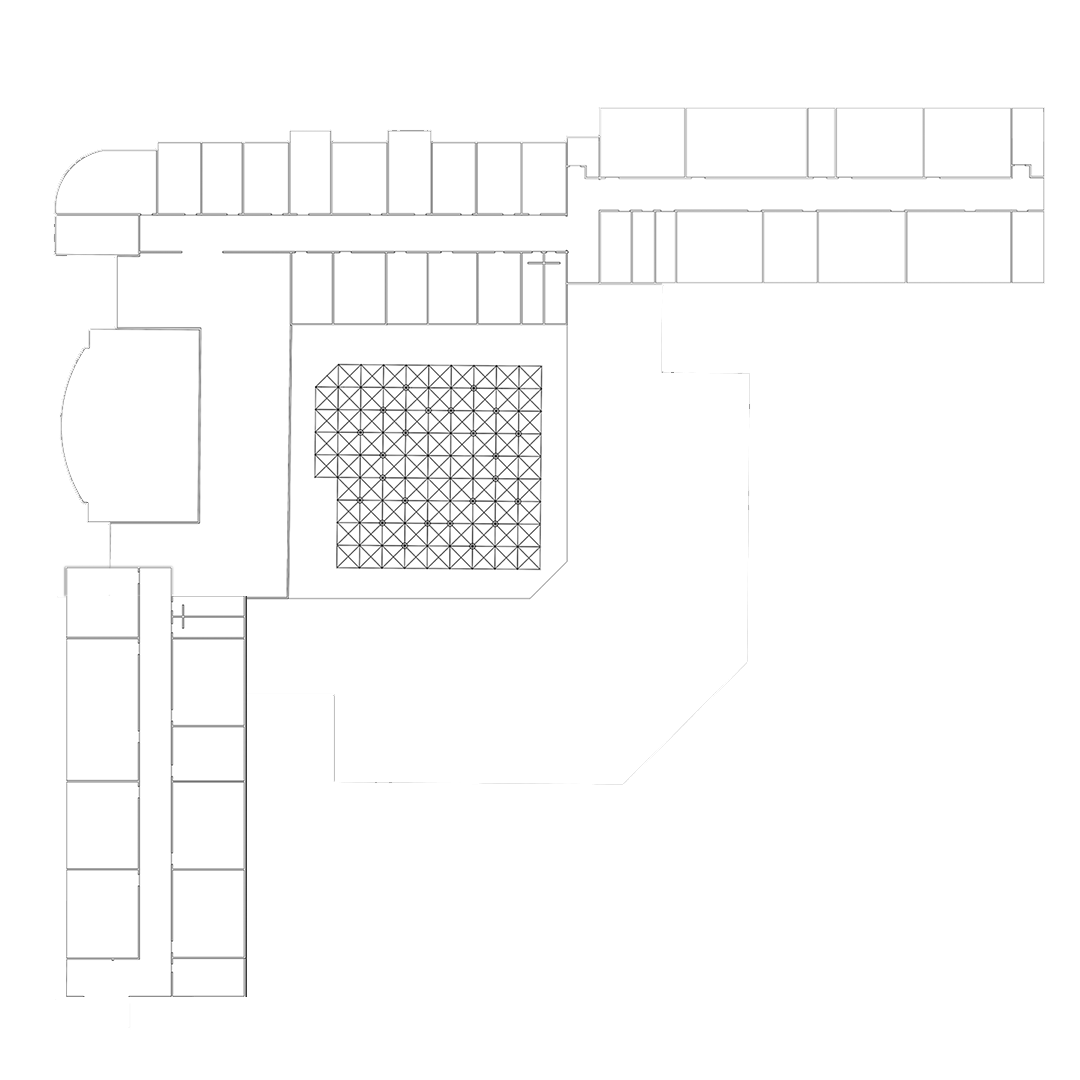
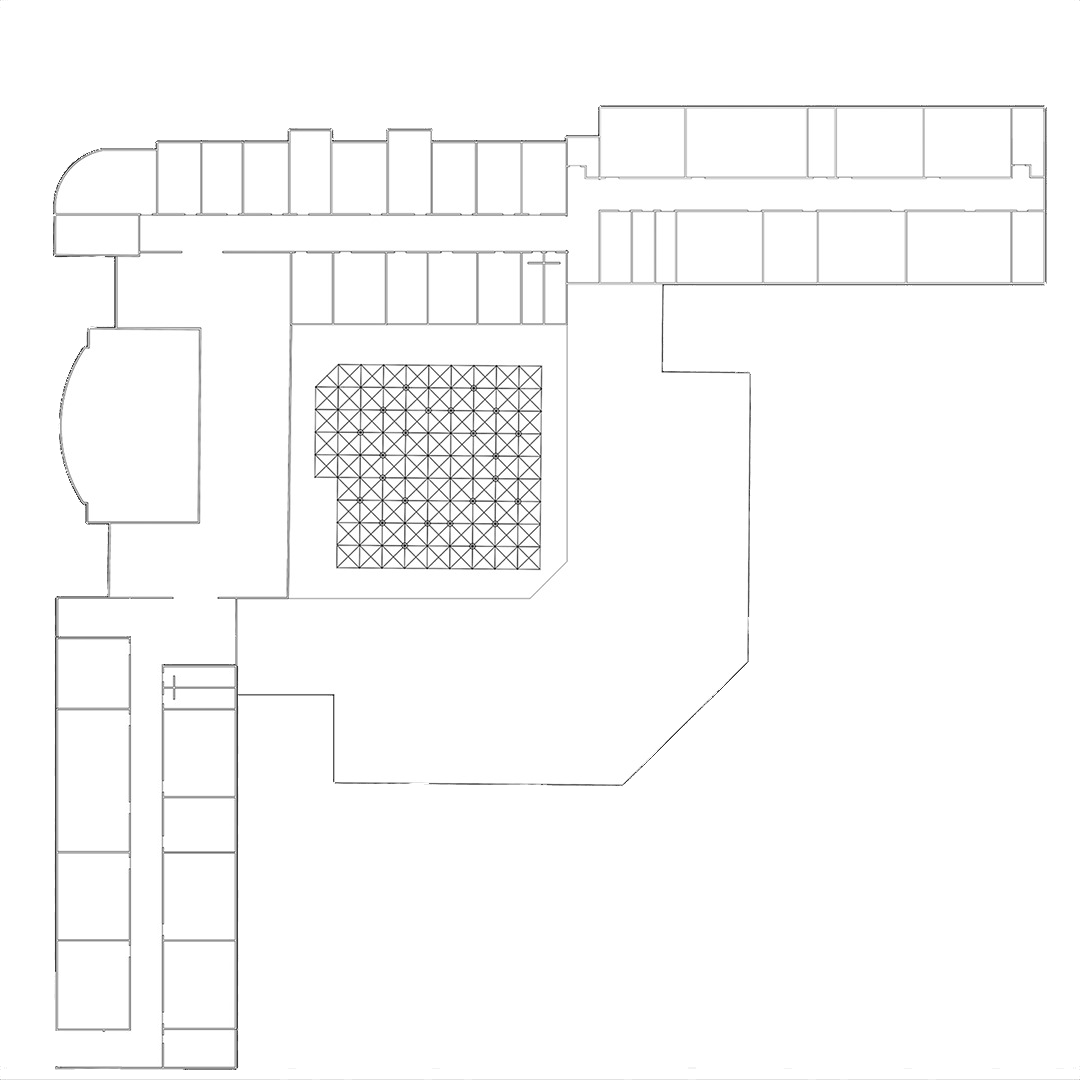
corridor 3 left

Changed region(s): [[0.0306, 0.5194, 0.2444, 1.0], [0.0917, 0.275, 0.1222, 0.3056], [0.0611, 0.4583, 0.0917, 0.4889]]

diff --git a/grad-map/lib/view/shared/global.dart b/grad-map/lib/view/shared/global.dart
@@ -278,11 +278,37 @@ abstract class Global {
       'name': '333',
       'icon': Icons.menu_book_rounded,
       'status': true,
-      'position': [-0.366, 0.055],
-      'door_position': [-0.333, 0.032],
-      'corridor_position': [-0.322, 0.032],
+      'position': [-0.374, 0.114],
+      'door_position': [-0.341, 0.091],
+      'corridor_position': [-0.329, 0.091],
     },
-    
+    {
+      'location': 'Room 332',
+      'name': '332',
+      'icon': Icons.menu_book_rounded,
+      'status': true,
+      'position': [-0.374, 0.2],
+      'door_position': [-0.341, 0.15],
+      'corridor_position': [-0.329, 0.15],
+    },
+    {
+      'location': '331',
+      'name': '331',
+      'icon': Icons.menu_book_rounded,
+      'status': true,
+      'position': [-0.374, 0.299],
+      'door_position': [-0.341, 0.27],
+      'corridor_position': [-0.329, 0.27],
+    },
+    {
+      'location': 'Room 330',
+      'name': '330',
+      'icon': Icons.menu_book_rounded,
+      'status': true,
+      'position': [-0.374, 0.375],
+      'door_position': [-0.341, 0.344],
+      'corridor_position': [-0.329, 0.44],
+    },
   ];
 
   static const List corridorCheckPoint = [

diff --git a/grad-map/lib/view/widgets/gridview_widget.dart b/grad-map/lib/view/widgets/gridview_widget.dart
@@ -91,7 +91,7 @@ class LinePainter extends CustomPainter {
 
   @override
   void paint(final Canvas canvas, final Size size) {
-    List xy = [-0.333, 0.032];
+    List xy = [-0.341, 0.344];
     List zz = [0.403, -0.288];
     List aa = [0.39, -0.288];
     print('[' + xy[0].toString() + ', ' + xy[1].toString());
